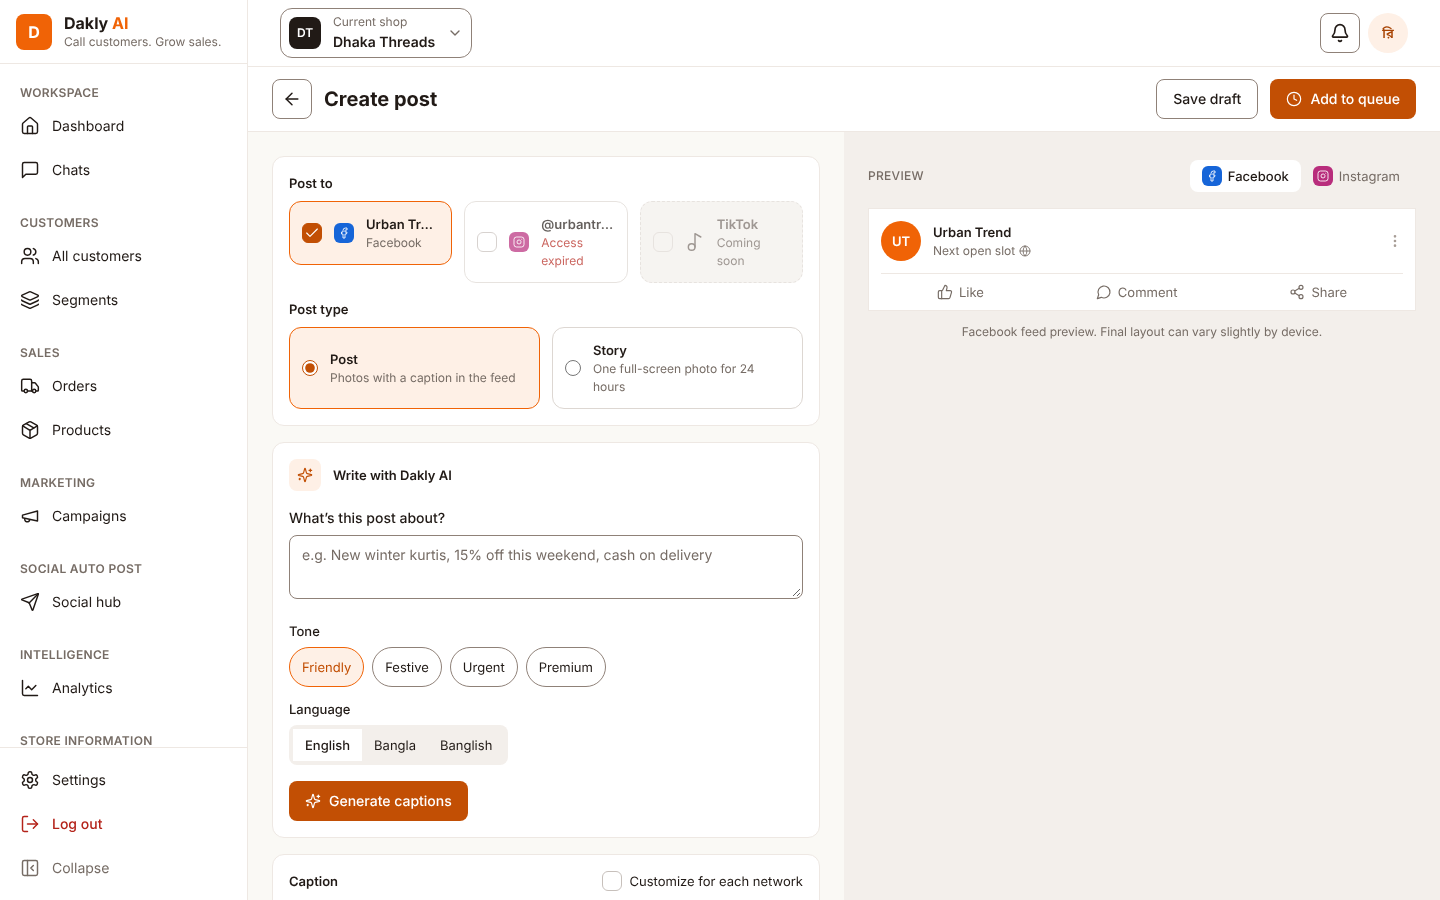
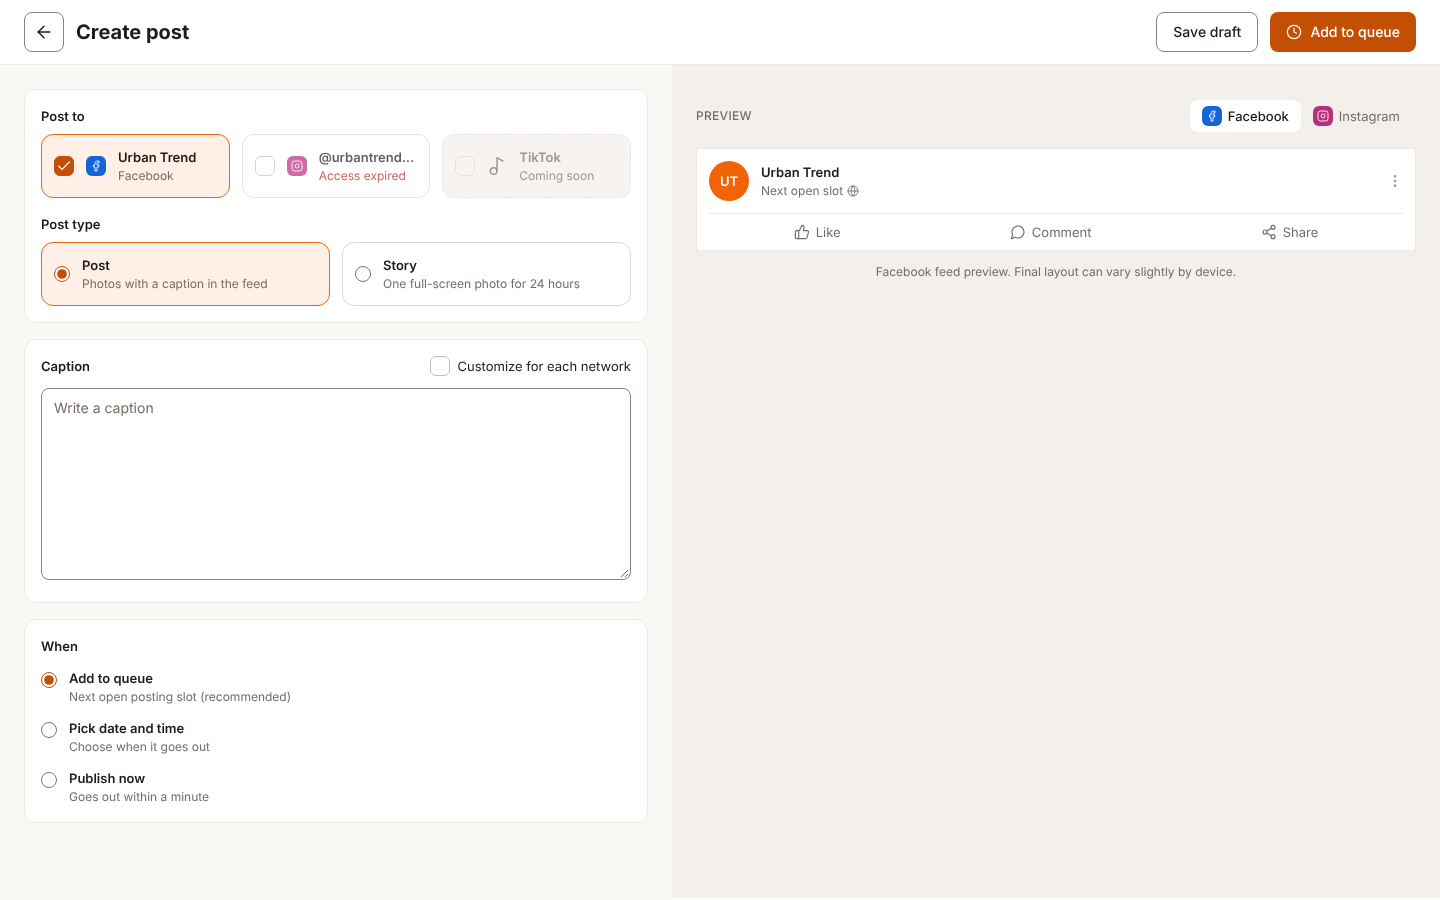
feat(soc-5): show Create post full screen outside the app shell and retake evidence

diff --git a/apps/web/src/features/social/components/post-editor/post-editor.tsx b/apps/web/src/features/social/components/post-editor/post-editor.tsx
@@ -42,34 +42,36 @@ export function PostEditor({ accounts, initial, onSubmit, ...frame }: PostEditor
   };
   return (
     <FormProvider {...form}>
-      <EditorHeader
-        title={frame.title}
-        backHref={frame.backHref}
-        pending={frame.pending}
-        canQueue={post.targets.length > 0}
-        queueLabel={submitButtonLabel(when.choice)}
-        onSaveDraft={() => submit({ mode: 'draft' })}
-        onQueue={queue}
-      />
-      {frame.error && (
-        <p role="alert" className="m-4 rounded-md bg-danger-soft p-3 text-sm text-danger md:mx-6">
-          {frame.error}
-        </p>
-      )}
-      <div className="grid lg:grid-cols-[minmax(0,1fr)_minmax(0,28rem)] xl:grid-cols-2">
-        <div className="space-y-4 p-4 md:p-6">
-          <PostDestinations accounts={accounts} />
-          <CaptionField accounts={accounts} />
-          <PostWhenField
-            choice={when.choice}
-            time={when.time}
-            timeError={when.timeError}
-            onChoice={when.setChoice}
-            onTime={when.setTime}
-          />
+      <main className="min-h-screen bg-background">
+        <EditorHeader
+          title={frame.title}
+          backHref={frame.backHref}
+          pending={frame.pending}
+          canQueue={post.targets.length > 0}
+          queueLabel={submitButtonLabel(when.choice)}
+          onSaveDraft={() => submit({ mode: 'draft' })}
+          onQueue={queue}
+        />
+        {frame.error && (
+          <p role="alert" className="m-4 rounded-md bg-danger-soft p-3 text-sm text-danger md:mx-6">
+            {frame.error}
+          </p>
+        )}
+        <div className="grid lg:grid-cols-[minmax(0,7fr)_minmax(0,8fr)]">
+          <div className="space-y-4 p-4 md:p-6">
+            <PostDestinations accounts={accounts} />
+            <CaptionField accounts={accounts} />
+            <PostWhenField
+              choice={when.choice}
+              time={when.time}
+              timeError={when.timeError}
+              onChoice={when.setChoice}
+              onTime={when.setTime}
+            />
+          </div>
+          <PreviewColumn preview={preview} whenLabel={whenLabelOf(when.choice, when.time)} />
         </div>
-        <PreviewColumn preview={preview} whenLabel={whenLabelOf(when.choice, when.time)} />
-      </div>
+      </main>
     </FormProvider>
   );
 }
@@ -81,7 +83,7 @@ type PreviewColumnProps = {
 
 function PreviewColumn({ preview, whenLabel }: PreviewColumnProps) {
   return (
-    <div className="bg-surface-muted p-4 md:p-6 lg:min-h-[calc(100vh-8rem)]">
+    <div className="bg-surface-muted p-4 md:p-6 lg:min-h-[calc(100vh-4.25rem)]">
       <div className="lg:sticky lg:top-24">
         <PostPreview {...preview} whenLabel={whenLabel} />
       </div>

diff --git a/apps/web/e2e/create-post.spec.ts b/apps/web/e2e/create-post.spec.ts
@@ -62,7 +62,6 @@ test('writes a caption and schedules the post', async ({ page, context, baseURL 
         })
       ).status(),
     ).toBe(204);
-    // The real model is not called in tests; the reply carries the context header the app checks.
     await page.setViewportSize({ width: 1440, height: 900 });
     await page.goto('/social/posts/new');
     await expect(page.getByRole('heading', { name: 'Create post', level: 1 })).toBeVisible();

diff --git a/apps/web/src/features/social/components/post-editor/caption-field.tsx b/apps/web/src/features/social/components/post-editor/caption-field.tsx
@@ -43,7 +43,7 @@ export function CaptionField({ accounts }: { accounts: SocialAccount[] }) {
         <Textarea
           aria-label="Caption"
           className="min-h-48"
-          placeholder="Write a caption, or generate one with Dakly AI above"
+          placeholder="Write a caption"
           value={caption}
           onChange={(event) => setValue('caption', event.target.value, { shouldDirty: true })}
         />

diff --git a/docs/features/08-content-and-social.md b/docs/features/08-content-and-social.md
@@ -224,7 +224,8 @@ The Social hub lists each connected Facebook Page and Instagram account with its
 - Instagram shows its single brand pink (`--color-instagram`) in place of the gradient.
 - Posting schedule edits one account's weekly slots at a time (an account picker shows when there are several), because slots are stored per connection. Use recommended times waits for follower-activity data and moves to SOC-7.
 - Duplicate copies the draft with its accounts and captions; Delete asks first. Edit arrives in a later SOC-5 part.
-- Create post (`/social/posts/new`) uses the shared post editor in `features/social/components/post-editor/`, which Content Studio reuses for Use in post. Differences from the design: photos come from Products only, because there is no upload API for post photos yet; Add hashtags builds tags from the caption's own words and uses no AI credits; the preview shows "Next open slot" or the chosen time instead of a sample date; Instagram accounts whose access expired show Access expired and cannot be selected. Add to queue, Pick date and time and Publish now sit in a When card, and the header button follows the choice. Captions picked from, or changed by, the AI panel save the draft as AI-written, so it needs approval (D7).
+- Create post (`/social/posts/new`) is a full-screen editor outside the app shell, like the workflow canvas, built from the shared post editor in `features/social/components/post-editor/`, which Content Studio reuses for Use in post. It has Post to, Post or Story, the caption (one for all or per network), a live Facebook and Instagram preview, When (Add to queue, Pick date and time, Publish now), Save draft and Add to queue. The preview shows "Next open slot" or the chosen time instead of a sample date, and an Instagram account whose access expired shows Access expired and cannot be selected.
+- Missing from Create post until later SOC-5 PRs: the AI caption panel with Shorten, Make friendlier, Translate and Add hashtags; photos from Products, the Facebook link and the Instagram first comment; and Upload from device for photos that are not products.
 - An AI-written draft that nobody approved shows Needs your OK (D7).
 
 TikTok shows Coming soon and stays hidden in release 1. The prototype's Instagram "Access expired" disagrees with the campaign builder; status comes from the real connection.
